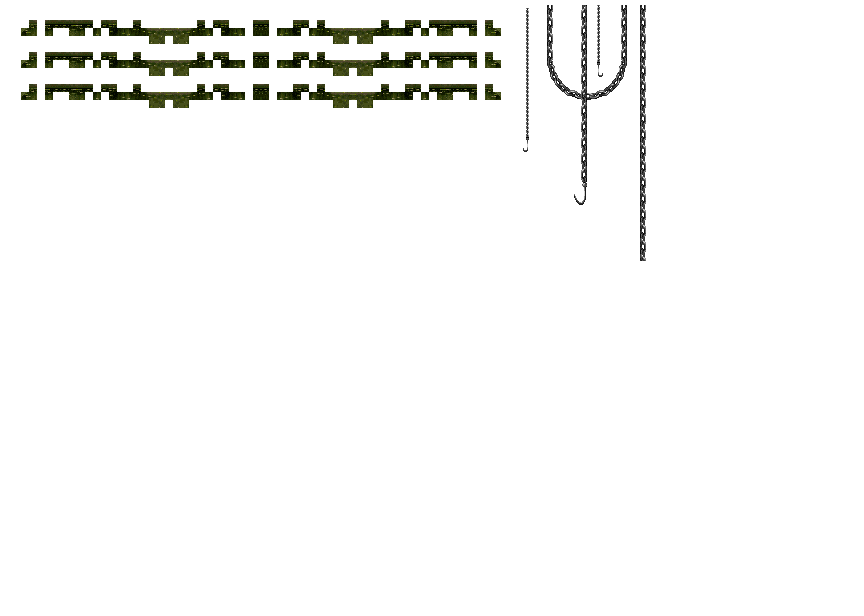
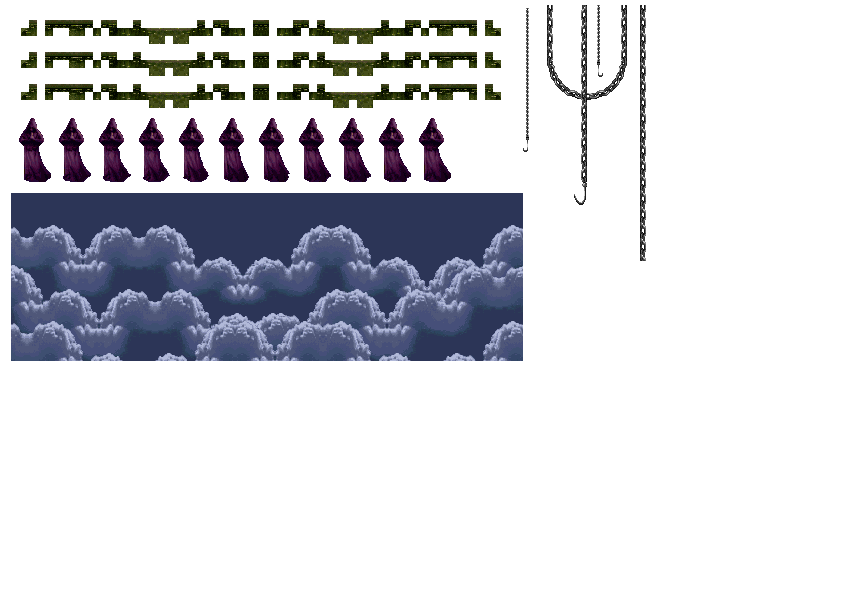
tower way better

Changed region(s): [[0.0, 0.1851, 0.625, 0.586]]

diff --git a/home.js b/home.js
@@ -263,7 +263,7 @@ function main(){
 
 		drawSkin(){
 			ctx.scale(2*this.orientation,2);
-			//console.log(this.costume,this.coordinates);
+			//console.log(this.costume);
 			var coords = this.coordinates.get(this.costume);
 			//console.log((this.x+decalagex-camerax+coords.decx*this.orientation-this.orientation*coords.width/2+shakex)*this.orientation,ground-this.y-coords.height-coords.decy+shakey);
 			ctx.drawImage(this.skin,coords.offx,coords.offy,coords.width,coords.height,(this.x+decalagex-camerax+coords.decx*this.orientation-this.orientation*coords.width/2+shakex)*this.orientation,ground-this.y-coords.height-coords.decy+shakey,coords.width,coords.height);
@@ -284,6 +284,14 @@ function main(){
 			ctx.setTransform(1, 0, 0, 1, 0, 0);
 			ctx.scale(1,1);
 			ctx.restore();
+		}
+
+		drawSkincolleLeft(width){
+			ctx.scale(2*this.orientation,2);
+			var coords = this.coordinates.get(this.costume);
+			ctx.drawImage(this.skin,coords.offx,coords.offy,coords.width,coords.height,(this.x+decalagex-camerax+coords.decx*this.orientation-this.orientation*width/2+shakex)*this.orientation,ground-this.y-coords.height-coords.decy+shakey,coords.width,coords.height);
+			ctx.setTransform(1, 0, 0, 1, 0, 0);
+			ctx.scale(1,1);
 		}
 
 		delete(){
@@ -309,6 +317,34 @@ function main(){
 			super(x,y,orientation,propspng,"backgroundchain"+type.toString(),propscoordinates,10,z_index);
 		}
 		afficher(){this.drawSkin();}
+	}
+
+	class ShadowGuy extends VisualObject{
+		static costpercpt = 8;
+		static hautbasphase = 300;
+		constructor(){
+			super(-4,80,1,propspng,"shadowguy1",propscoordinates,10,-1);
+			this.costcpt = 0; this.hautbas = 0;
+			this.basey = this.y;
+		}
+		afficher(){
+			this.costcpt = (this.costcpt+1)%(ShadowGuy.costpercpt*11); this.hautbas = (this.hautbas+1)%ShadowGuy.hautbasphase;
+			this.costume ="shadowguy"+(Math.floor(this.costcpt/ShadowGuy.costpercpt)+1).toString();
+			this.y = this.basey+5*Math.sin(this.hautbas*2*Math.PI/ShadowGuy.hautbasphase);
+			this.drawSkincolleLeft(32);
+		}
+	}
+
+	class SkyMoving extends VisualObject{
+		constructor(faux_x){
+			super(0,40,1,propspng,"sky",propscoordinates,10,-2);
+			this.faux_x = faux_x;
+		}
+		afficher(){
+			this.faux_x = (this.faux_x+1.5)%1024;
+			this.x = this.faux_x-400;
+			this.drawSkin();
+		}
 	}
 
 	class Blood extends VisualObject
@@ -5709,6 +5745,11 @@ function main(){
 		let m = stage_size/2-decalagex;
 		if(camerax<-m){camerax=-m}
 		if(camerax>m){camerax=m}
+		if(fatalitywasdone || fatalitysreen){ctx.filter = 'brightness(0.5)';}
+		for(let value of objects_to_loop.values()){
+			if(value.z_index==-2){value.afficher();}
+		}
+		ctx.filter="none";
 		drawStage();
 		if(fightstartcountdown>=60){
 			if(fightstartcountdown==129){roundswav[roundwonsj1+roundwonsj2].play();}
@@ -5757,6 +5798,9 @@ function main(){
 			if((j1.pv==0 && j1.charac.sex == "f") || (j2.pv==0 && j2.charac.sex == "f")){play_sound_eff("finishher");}
 			else{play_sound_eff("finishhim");}
 		}
+		for(let value of objects_to_loop.values()){
+			if(value.z_index==1){value.afficher();}
+		}
 		if(fatalitysreen){
 			if(fatalitysreen%8==1 && fatalitysreen>30){add_to_objects_set(new DropBlood(randomInt(-90,90)+camerax,-128+ground,1,"ldropblood",0.,0.));}
 			ctx.scale(4,4);
@@ -5764,9 +5808,6 @@ function main(){
 			ctx.setTransform(1, 0, 0, 1, 0, 0);
 			ctx.scale(1,1);
 			if(fatalitysreen==40){play_sound_eff("fatal2");}
-		}
-		for(let value of objects_to_loop.values()){
-			if(value.z_index==1){value.afficher();}
 		}
 		if (isinladder()){
 			ui_ctx.fillStyle = "white";
@@ -5845,7 +5886,7 @@ function main(){
 		chosenstage = Math.floor(Math.random()*numberofstages);
 		if(arcadelevel>=0){chosenstage = arcadestagesorder[arcadelevel];}
 		if(survival_handler.is_active()){chosenstage = survival_handler.get_stage();}
-		//chosenstage = 1;
+		//chosenstage = 0;
 		ground = grounds[chosenstage];
 		stage_size = stagesizes[chosenstage];
 	}
@@ -5860,6 +5901,11 @@ function main(){
 			add_to_objects_set(new Chain(130,-30,1,3,1));
 			add_to_objects_set(new Chain(240,70,1,1,-1));
 			
+		}
+		else if(chosenstage==0){
+			add_to_objects_set(new ShadowGuy());
+			add_to_objects_set(new SkyMoving(0));
+			add_to_objects_set(new SkyMoving(512));
 		}
 	}
 

diff --git a/costumescoordinates.js b/costumescoordinates.js
@@ -1896,6 +1896,18 @@ function getpropscoordinates(){
 	propscoordinates.set("backgroundchain1",{offx:520,width:12,offy:8,height:144,decx:0,decy:0});
 	propscoordinates.set("backgroundchain2",{offx:546,width:82,offy:5,height:200,decx:0,decy:0});
 	propscoordinates.set("backgroundchain3",{offx:639,width:8,offy:5,height:256,decx:0,decy:0});
+	propscoordinates.set("shadowguy1",{offx:19,width:32,offy:118,height:64,decx:0,decy:0});
+	propscoordinates.set("shadowguy2",{offx:59,width:32,offy:118,height:64,decx:0,decy:0});
+	propscoordinates.set("shadowguy3",{offx:99,width:32,offy:118,height:64,decx:0,decy:0});
+	propscoordinates.set("shadowguy4",{offx:139,width:31,offy:118,height:64,decx:0,decy:0});
+	propscoordinates.set("shadowguy5",{offx:179,width:30,offy:118,height:64,decx:0,decy:0});
+	propscoordinates.set("shadowguy6",{offx:219,width:30,offy:118,height:64,decx:0,decy:0});
+	propscoordinates.set("shadowguy7",{offx:259,width:31,offy:118,height:64,decx:0,decy:0});
+	propscoordinates.set("shadowguy8",{offx:299,width:32,offy:118,height:64,decx:0,decy:0});
+	propscoordinates.set("shadowguy9",{offx:339,width:32,offy:118,height:64,decx:0,decy:0});
+	propscoordinates.set("shadowguy10",{offx:379,width:32,offy:118,height:64,decx:0,decy:0});
+	propscoordinates.set("shadowguy11",{offx:419,width:32,offy:118,height:64,decx:0,decy:0});
+	propscoordinates.set("sky",{offx:11,width:512,offy:193,height:168,decx:0,decy:0});
 	return propscoordinates;
 }
 

diff --git a/image_loader.js b/image_loader.js
@@ -109,7 +109,7 @@ var kahnstructurepng = new Image();kahnstructurepng.src = 'ressource/stages/kahn
 var kahnbackgroundpng = new Image();kahnbackgroundpng.src = 'ressource/stages/kahnbackground.png';
 var stagesstruct = [towerstructurepng, deadpoolpng, wastestructurepng, forestgroundpng, gorostructurepng, kahnstructurepng];
 var stagesground = [towergroundpng, null, wastegroundpng, null, null, null];
-var stagesbackground = [towerbackgroundpng, null, wastebackgroundpng, forestbackgroundpng, gorobackgroundpng, kahnbackgroundpng];
+var stagesbackground = [null, null, wastebackgroundpng, forestbackgroundpng, gorobackgroundpng, kahnbackgroundpng];
 var grounds = [240, 220, 240, 240, 230, 240];
 var stagesizes = [754,690, 750,800, 775, 730];
 var backgroundscroll = [0.2,0,0,0.2, 0.5, 0.4];

diff --git a/costume_generator.py b/costume_generator.py
@@ -9,7 +9,7 @@ import re
 # =========================
 # CONFIG
 # =========================
-PREFIX = "kun"   # ex: "joh" -> johcoordinates.set(...)
+PREFIX = "props"   # ex: "joh" -> johcoordinates.set(...)
 # =========================
 
 
